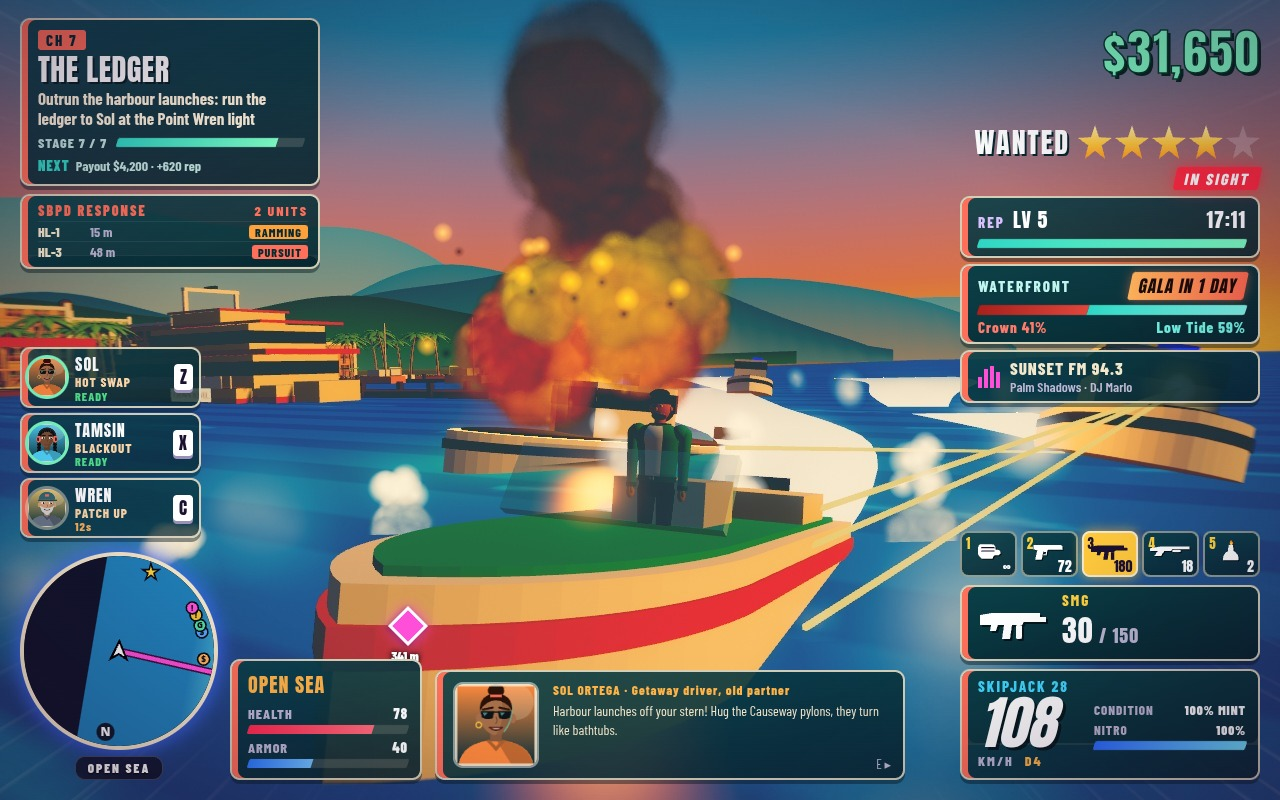
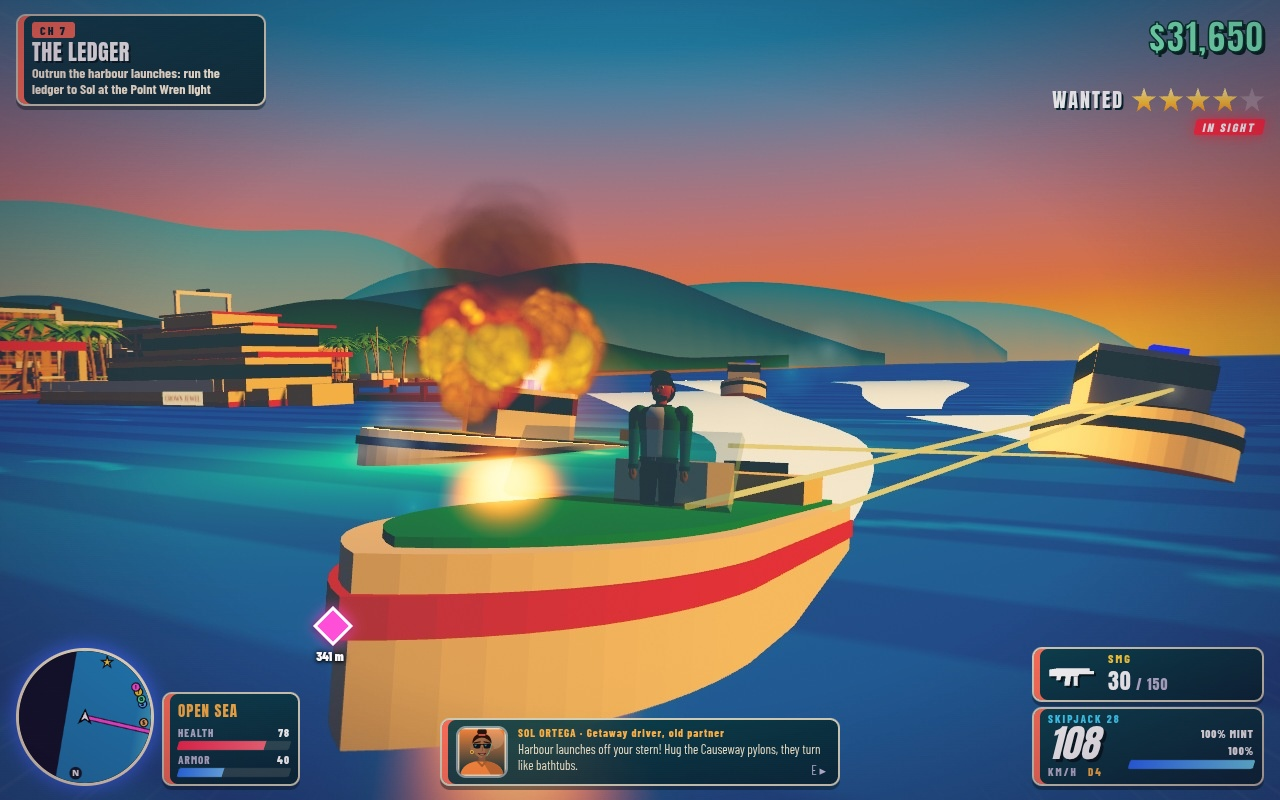
Explosion smoke emerges from the fireball (half-second fade-in, lower start) instead of popping in as a tall column; boat shot catches the launch blast as a tight bright fireball off Nico's shoulder via the real sinking step, splashes settled, compact HUD, lower bloom

diff --git a/game/src/combat/effects.js b/game/src/combat/effects.js
@@ -25,7 +25,7 @@ export function initEffects(scene) {
 // o.tex 'puff' = billowing noise puff (fire/smoke), o.c2 = colour reached at end of life, o.hdr = brightness boost for bloom
 export function particle(o) {
   const p = pool.find((q) => q.life <= 0); if (!p) return;
-  p.life = p.max = o.life; p.vx = o.vx || 0; p.vy = o.vy || 0; p.vz = o.vz || 0; p.grow = o.grow || 0; p.g = o.g || 0; p.size = o.size; p.op = o.op ?? 1; p.spin = o.spin || 0; p.drag = o.drag || 0;
+  p.life = p.max = o.life; p.vx = o.vx || 0; p.vy = o.vy || 0; p.vz = o.vz || 0; p.grow = o.grow || 0; p.g = o.g || 0; p.size = o.size; p.op = o.op ?? 1; p.spin = o.spin || 0; p.drag = o.drag || 0; p.fin = o.fin || 0; // fin: seconds to fade in (smoke that emerges instead of popping in)
   const m = p.s.material; m.map = o.tex === 'puff' ? puff : glow; m.rotation = o.rot ?? (o.tex === 'puff' ? Math.random() * 6.283 : 0);
   p.c1.set(o.color).multiplyScalar(o.hdr || 1); p.c2 = o.c2 != null ? new THREE.Color(o.c2).multiplyScalar(o.hdr2 || 1) : null; m.color.copy(p.c1);
   p.s.position.set(o.x, o.y, o.z); m.blending = o.add ? THREE.AdditiveBlending : THREE.NormalBlending; p.s.visible = true; p.s.scale.setScalar(o.size);
@@ -49,8 +49,8 @@ export function explosion(x, y, z) {
   for (let i = 0; i < 7; i++) particle({ x: x + (R() - .5) * 1.2, y: y + 0.6 + R() * 1.2, z: z + (R() - .5) * 1.2, vx: (R() - .5) * 3, vy: 1 + R() * 2, vz: (R() - .5) * 3, life: 0.45 + R() * 0.2, size: 2 + R() * 1.4, grow: 4, color: 0xfff6d0, c2: 0xff9a30, hdr: 2.6, hdr2: 1.6, add: true, op: 0.9, tex: P, spin: 1.5, drag: 2 });
   for (let i = 0; i < 22; i++) { const a = R() * 6.283, sp = 3 + R() * 5; particle({ x: x + Math.cos(a) * 0.8, y: y + 0.5 + R() * 1.6, z: z + Math.sin(a) * 0.8, vx: Math.cos(a) * sp, vy: 2 + R() * 6, vz: Math.sin(a) * sp, life: 0.9 + R() * 0.6, size: 1.8 + R() * 1.6, grow: 3.2, color: [0xffd050, 0xffa030, 0xff7a20][i % 3], c2: 0x5a1208, hdr: 1.9, hdr2: 0.7, op: 0.95, tex: P, spin: (R() - .5) * 2, drag: 2.2 }); }
   for (let i = 0; i < 8; i++) particle({ x: x + (R() - .5) * 2, y: y + 1 + R(), z: z + (R() - .5) * 2, vx: (R() - .5) * 5, vy: 2 + R() * 4, vz: (R() - .5) * 5, life: 0.7, size: 3 + R() * 2, grow: 3, color: 0xff7020, hdr: 1.4, add: true, op: 0.5, tex: P, drag: 2 });
-  // billowing smoke column rising above the fireball: warm grey, fire-lit and see-through rather than a flat black mass
-  for (let i = 0; i < 18; i++) particle({ x: x + (R() - .5) * 2, y: y + 2 + i * 0.35 + R(), z: z + (R() - .5) * 2, vx: (R() - .5) * 1.6, vy: 2.5 + R() * 2.5, vz: (R() - .5) * 1.6, life: 3 + R(), size: 2.6 + i * 0.12 + R(), grow: 2.4, color: i % 3 ? 0x8a6656 : 0xa8785c, c2: 0xc8b4a4, op: 0.5, tex: P, spin: (R() - .5) * 0.6, drag: 0.6 });
+  // billowing smoke column rising out of the fireball (fading in over half a second, so the first instant is a clean bright burst): warm grey, fire-lit and see-through
+  for (let i = 0; i < 18; i++) particle({ fin: 0.5, x: x + (R() - .5) * 2, y: y + 1.2 + i * 0.18 + R() * 0.6, z: z + (R() - .5) * 2, vx: (R() - .5) * 1.6, vy: 2.5 + R() * 2.5, vz: (R() - .5) * 1.6, life: 3 + R(), size: 2.6 + i * 0.12 + R(), grow: 2.4, color: i % 3 ? 0x8a6656 : 0xa8785c, c2: 0xc8b4a4, op: 0.5, tex: P, spin: (R() - .5) * 0.6, drag: 0.6 });
   // flying burning debris trailing glow, dark chunks, sparks and a ground glow
   for (let i = 0; i < 16; i++) { const vx = (R() - .5) * 22, vy = 6 + R() * 10, vz = (R() - .5) * 22; particle({ x, y: y + 0.8, z, vx, vy, vz, g: 14, life: 1.3, size: 0.55, color: 0xffb040, hdr: 2.2, add: true }); particle({ x, y: y + 0.8, z, vx: vx * 0.9, vy: vy * 0.9, vz: vz * 0.9, g: 14, life: 1.2, size: 0.32, color: 0x1a1210 }); }
   sparks(x, y + 1, z, 26);
@@ -75,7 +75,7 @@ export function updateEffects(dt) {
     p.life -= dt; if (p.life <= 0) { p.s.visible = false; continue; }
     if (p.drag) { const k = Math.max(0, 1 - p.drag * dt); p.vx *= k; p.vz *= k; p.vy *= k; }
     p.vy -= p.g * dt; p.s.material.rotation += p.spin * dt; if (p.c2) p.s.material.color.copy(p.c1).lerp(p.c2, Math.min(1, (1 - p.life / p.max) * 1.4));
-    p.s.position.x += p.vx * dt; p.s.position.y += p.vy * dt; p.s.position.z += p.vz * dt; p.size += p.grow * dt; p.s.scale.setScalar(p.size); p.s.material.opacity = p.op * (p.life / p.max);
+    p.s.position.x += p.vx * dt; p.s.position.y += p.vy * dt; p.s.position.z += p.vz * dt; p.size += p.grow * dt; p.s.scale.setScalar(p.size); p.s.material.opacity = p.op * (p.life / p.max) * (p.fin ? Math.min(1, (p.max - p.life) / p.fin) : 1);
   }
   if (flashT > 0) { flashT -= dt; flash.intensity = flashT > 0 ? 900 * (flashT / 0.6) ** 2 : 0; }
   for (const c of scorches) if (c.life > 0) { c.life -= dt; c.m.material.opacity = Math.min(1, c.life / 5); if (c.life <= 0) c.m.visible = false; }

diff --git a/game/src/shots/screenshotScenes.js b/game/src/shots/screenshotScenes.js
@@ -115,15 +115,17 @@ function boatRun(api) {
   b.input.steer = 0; b.input.hand = 0; for (let i = 0; i < S.settle; i++) { G.time += 1 / 60; updateBoats(1 / 60); updateEffects(1 / 60); } p.x = b.x; p.z = b.z;
   // the gunfight (combat/boatGunfight.js): Nico's rounds have just holed the second launch's fuel tank and it goes up beside
   // the wake; the lead launch's bow gunner walks a burst across the water at the Skipjack while Nico fires back over the stern
-  { const l = launches[1], [fx, fz, rx, rz] = fwd(), [bk, sd] = S.blast; l.x = b.x - fx * bk + rx * sd; l.z = b.z - fz * bk + rz * sd; l.heading = b.heading - 0.5; l.mesh.position.set(l.x, 0, l.z); l.mesh.rotation.y = l.heading; l.trail = []; sinkBoat(l); }
-  for (let i = 0; i < 8; i++) { G.time += 1 / 60; updateEffects(1 / 60); fire(launches[1].x, 1.3 + i * 0.2, launches[1].z); } // the fuel fire roaring up
   const lead = launches[0], bow = () => [lead.x + Math.sin(lead.heading) * 3.6, 1.9, lead.z + Math.cos(lead.heading) * 3.6];
   for (let i = 0; i < 12; i++) { G.time += 1 / 60; updateEffects(1 / 60); if (i % 3 === 0) { boatShot(...bow(), b, 3.2, 0); { const a = Math.random() * 6.283, r = 4.5 + Math.random() * 4; splash(b.x + Math.cos(a) * r, b.z + Math.sin(a) * r); } } }
+  for (let i = 0; i < 30; i++) { G.time += 1 / 60; updateEffects(1 / 60); } // half a second on: the near-miss splashes have mostly fallen back
+  { const l = launches[1], [fx, fz, rx, rz] = fwd(), [bk, sd] = S.blast; l.x = b.x - fx * bk + rx * sd; l.z = b.z - fz * bk + rz * sd; l.heading = b.heading - 0.5; l.mesh.position.set(l.x, 0, l.z); l.mesh.rotation.y = l.heading; l.trail = []; sinkBoat(l); }
+  { const all = G.boats; G.boats = [launches[1]]; // the game's own sinking step for the holed launch alone, ten frames: a tight, bright fireball with the fuel catching on the water and the smoke only starting to rise
+    for (let i = 0; i < 10; i++) { G.time += 1 / 60; updateBoats(1 / 60); updateEffects(1 / 60); } G.boats = all; }
   { const dx = lead.x - b.x, dz = lead.z - b.z, d = Math.hypot(dx, dz); // Nico's return fire leaves the gun muzzle, held out over the stern toward the launch
     for (let k = 0; k < 2; k++) { boatShot(...bow(), b, 2.4, 0); if (k) boatShot(b.x + dx / d * 1.3, 1.65, b.z + dz / d * 1.3, lead, 2, 0); } }
   // camera ahead of the bow and off to one side, looking back past the boat toward the yacht at Marina Cala
   { const [fx, fz, rx, rz] = fwd(); G.shotCam = { pos: [b.x + fx * c.f + rx * c.r, c.h, b.z + fz * c.f + rz * c.r], look: [b.x + (YACHT.x - b.x) * c.k + rx * c.lr, c.ly, b.z + (YACHT.z - b.z) * c.k + rz * c.lr], fov: c.fov, roll: c.roll }; }
-  updateLineOfSight(1); G.exposure = 1.1; if (G.post) Object.assign(G.post.params, { bloom: 0.34, threshold: 1.2, vignette: 0.3 });
+  updateLineOfSight(1); G.exposure = 1.1; G.settings.hudCompact = true; if (G.post) Object.assign(G.post.params, { bloom: 0.2, threshold: 1.55, vignette: 0.2 });
   finish(api); }
 // Chapter 3, Coral Kings Don't Share: the gunfight on the road along the Old Town lagoon market. Nico fires the SMG from
 // the tail of the car he skidded in (parked beside his line of fire so the rounds really reach the cage); his rounds just touched off the gas cage at the market's south landing, and the
@@ -186,7 +188,7 @@ function garage(api) {
   finish(api); }
 // staging numbers for the boat run (start x, z, heading, speed; steps of 1/60 s; when the hard turn starts; camera offsets in the boat's frame)
 const SHOT2 = { start: [414, -204, 0.6], v0: 26, steps: 100, turnAt: 70, steer: -0.6, launches: [[409, -226, 0.5], [426, -236, 0.4], [398, -246, 0.55]],
-  lead: [12, 7], blast: [12, -6.5], settle: 30, cam: { f: 6.7, r: 3.1, h: 2.6, k: 0.1, lr: 4.2,  ly: 2.0, fov: 54, roll: -0.02 } };
+  lead: [12, 7], blast: [13, -10], settle: 30, cam: { f: 6.7, r: 3.1, h: 2.6, k: 0.1, lr: 4.2,  ly: 2.0, fov: 54, roll: -0.02 } };
 // Crew & Chapters screen opened from a ride on The Strand: six chapters done, Dex has turned, Sol's HOT SWAP cooling down.
 function crewScreen(api) {
   const p = G.p, done = ['m1', 'm2', 'm3', 'm4', 'm5', 'm6']; clearTraffic(); G.mode = 'pause'; G.clock = 17.1; G.magicForce = 0.6; G.completed = done; G.territory = null; G.xp = 2200; G.money = 21400; G.crew = { cd: { sol: 18 }, swaps: 1 }; G.wanted.stars = 0;
